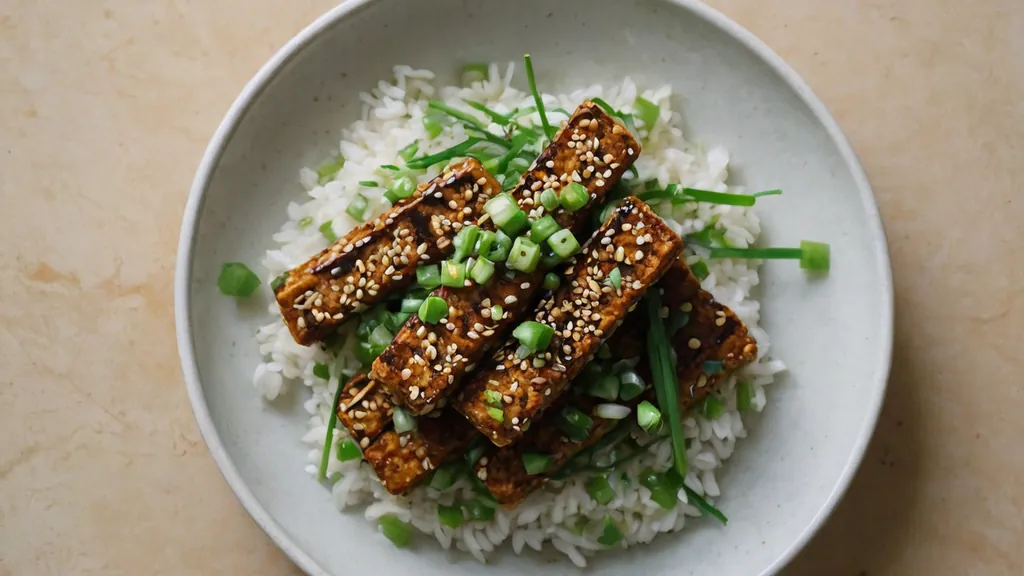
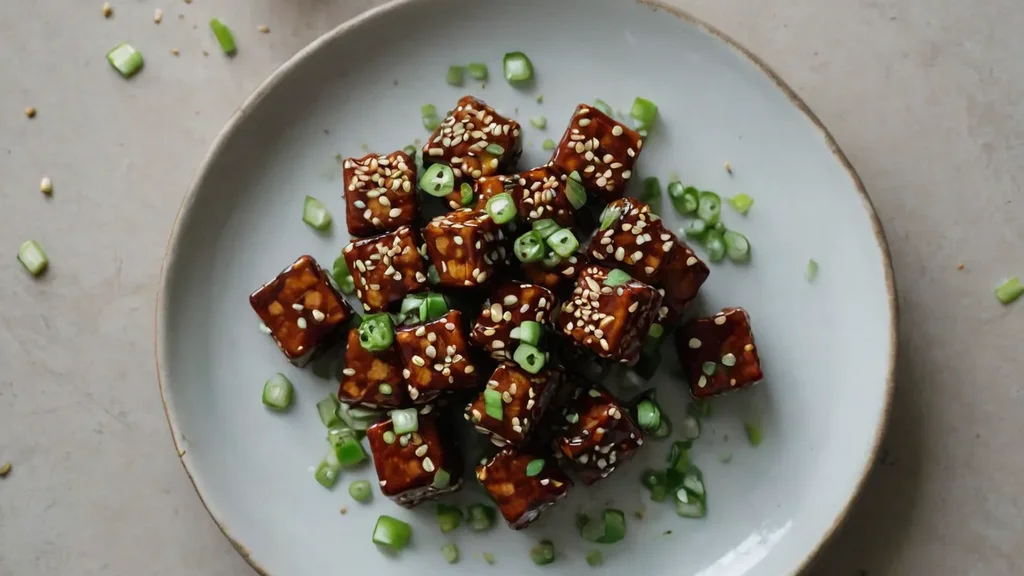
fix(dishes): improve prompting and regenerate images for Green Beans, Short Ribs, and Tempeh

diff --git a/bsdm/dishes.py b/bsdm/dishes.py
@@ -84,9 +84,9 @@ _INVISIBLE_RE = re.compile(
     # Any oil, however the kitchen spells the blend ("canola/olive oil blend").
     r"|[\w/ ]*oils?( blend)?|cooking spray|butter spray"
     r"|corn ?starch|arrowroot|xanthan gum|flour|baking (powder|soda)|yeast|msg"
-    r"|(white |red |rice |apple cider |balsamic )?vinegar|citric acid|lemon juice|lime juice"
+    r"|(white |red |rice |apple cider |balsamic )?vinegar|citric acid|lemon juice|lime juice|orange juice|pineapple juice"
     r"|spices?|seasoning( blend| mix)?|salt and pepper|garlic powder|onion powder"
-    r"|preservatives?|emulsifiers?|food colou?ring"
+    r"|preservatives?|emulsifiers?|food colou?ring|marinade|dredge|glaze|batter"
     r")\s*$",
     re.I,
 )
@@ -288,6 +288,7 @@ def _key_ingredients(ingredients: str, limit: int = 12, dish_name: str = "") -> 
     seen, clean = set(), []
     for item in out:
         item = re.sub(r"\s+", " ", item).strip(" .;:-")
+        item = re.sub(r"^(marinade|dredge|glaze|batter)\s+", "", item, flags=re.I)
         if not item or len(item) > 40 or _INVISIBLE_RE.match(item):
             continue
         # The same rule that stops "oyster sauce" from marking a dish as seafood
@@ -316,10 +317,12 @@ def is_bowl(dish) -> bool:
 
 
 def _hero_protein_phrase(dish) -> str | None:
+    name = (_get(dish)("name", "") or "").lower()
+    if "tempeh" in name:
+        return "crispy bite-sized golden-brown glazed tempeh cubes, sticky spicy-sweet red gochujang glaze, toasted sesame seeds and chopped scallions"
     category = classify(dish)
     if category not in ("pork", "beef", "poultry", "seafood", "lamb"):
         return None
-    name = (_get(dish)("name", "") or "").lower()
     if category == "pork":
         if "bulgogi" in name:
             return "tender stir-fried thinly sliced pork in sweet savory marinade with scallions"
@@ -331,6 +334,8 @@ def _hero_protein_phrase(dish) -> str | None:
     if category == "beef":
         if "bulgogi" in name:
             return "tender stir-fried thinly sliced beef in sweet savory marinade with onions and scallions"
+        if "short rib" in name or "rib" in name:
+            return "tender grilled bone-in kalbi beef short ribs with caramelized teriyaki glaze"
         if "steak" in name:
             return "juicy sliced seared steak with rich caramelized crust"
         if "burger" in name:

diff --git a/tests/test_dishes.py b/tests/test_dishes.py
@@ -195,6 +195,20 @@ class TestKeyIngredients:
         prompt = dishlib.image_prompt(beef_bulgogi)
         assert "tender stir-fried thinly sliced beef in sweet savory marinade with onions and scallions" in prompt
 
+    def test_short_ribs_anchors_hero_protein(self):
+        ribs = d("Hawaiian Teriyaki Short Ribs", "beef short ribs, teriyaki sauce, orange juice, green onions")
+        prompt = dishlib.image_prompt(ribs)
+        assert "tender grilled bone-in kalbi beef short ribs with caramelized teriyaki glaze" in prompt
+        assert "orange juice" not in prompt
+
+    def test_tempeh_anchors_hero_cubes(self):
+        tempeh = d("Crispy Korean-Style Tempeh", "tempeh, marinade (garlic), dredge (flour), glaze (gochujang) toasted sesame seeds, green onions", tags=["vegan"])
+        prompt = dishlib.image_prompt(tempeh)
+        assert "crispy bite-sized golden-brown glazed tempeh cubes" in prompt
+        assert "marinade" not in prompt
+        assert "dredge" not in prompt
+        assert "toasted sesame seeds" in prompt
+
 
 class TestVessel:
     def test_bowl_dishes_detected(self):
